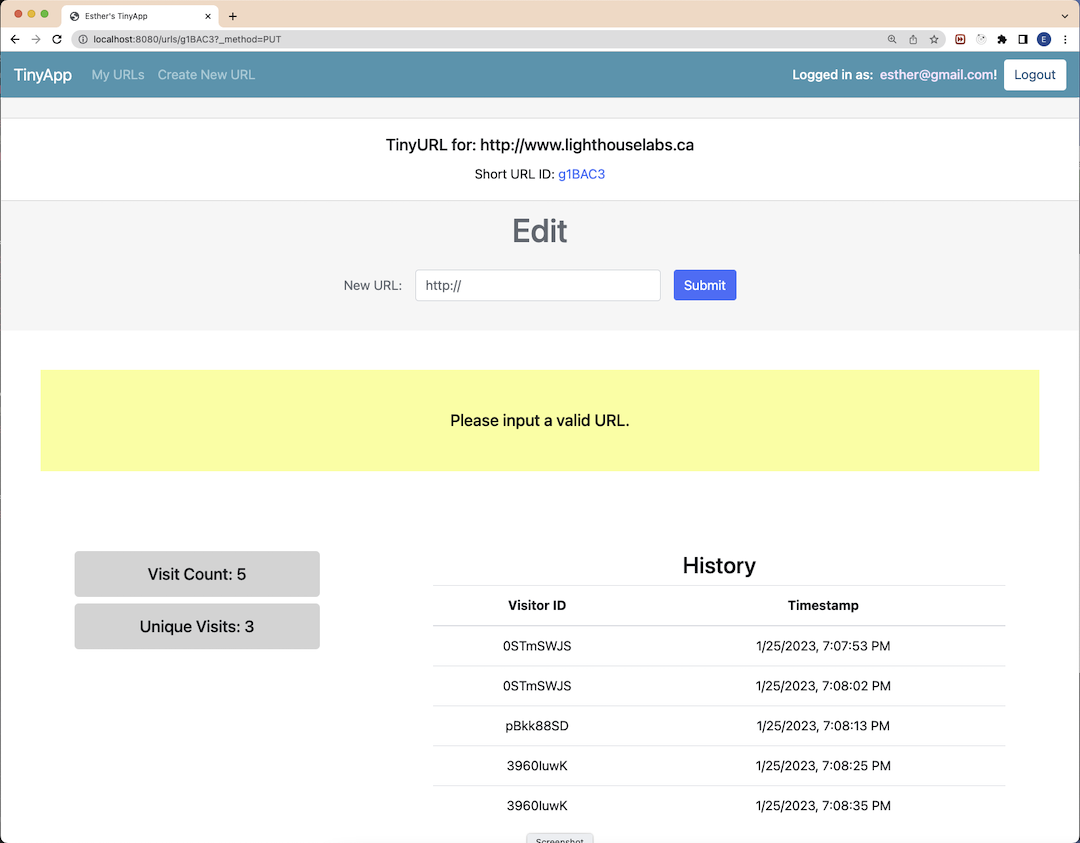
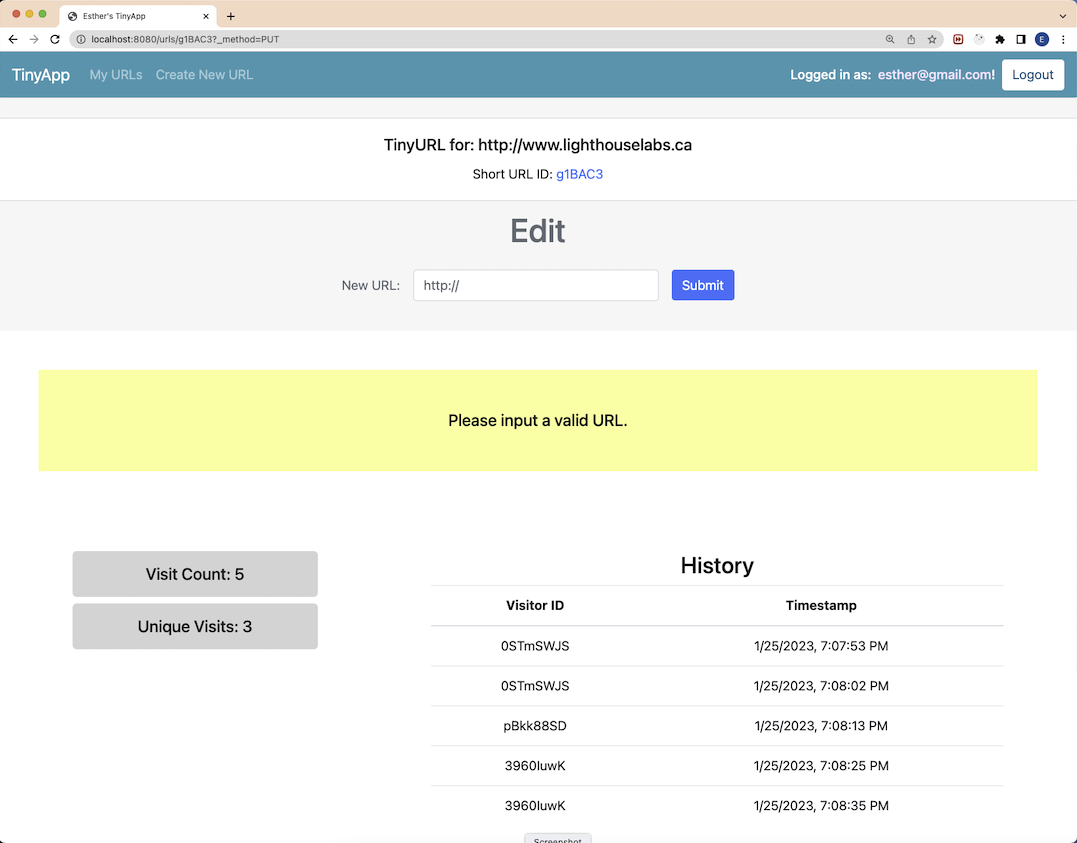
Fix screenshots

diff --git a/README.md b/README.md
@@ -1,4 +1,4 @@
-# TinyApp Project
+# Esther's TinyApp Project
 
 TinyApp is a full stack web application built with Node and Express that allows users to shorten long URLs (à la bit.ly).
 
